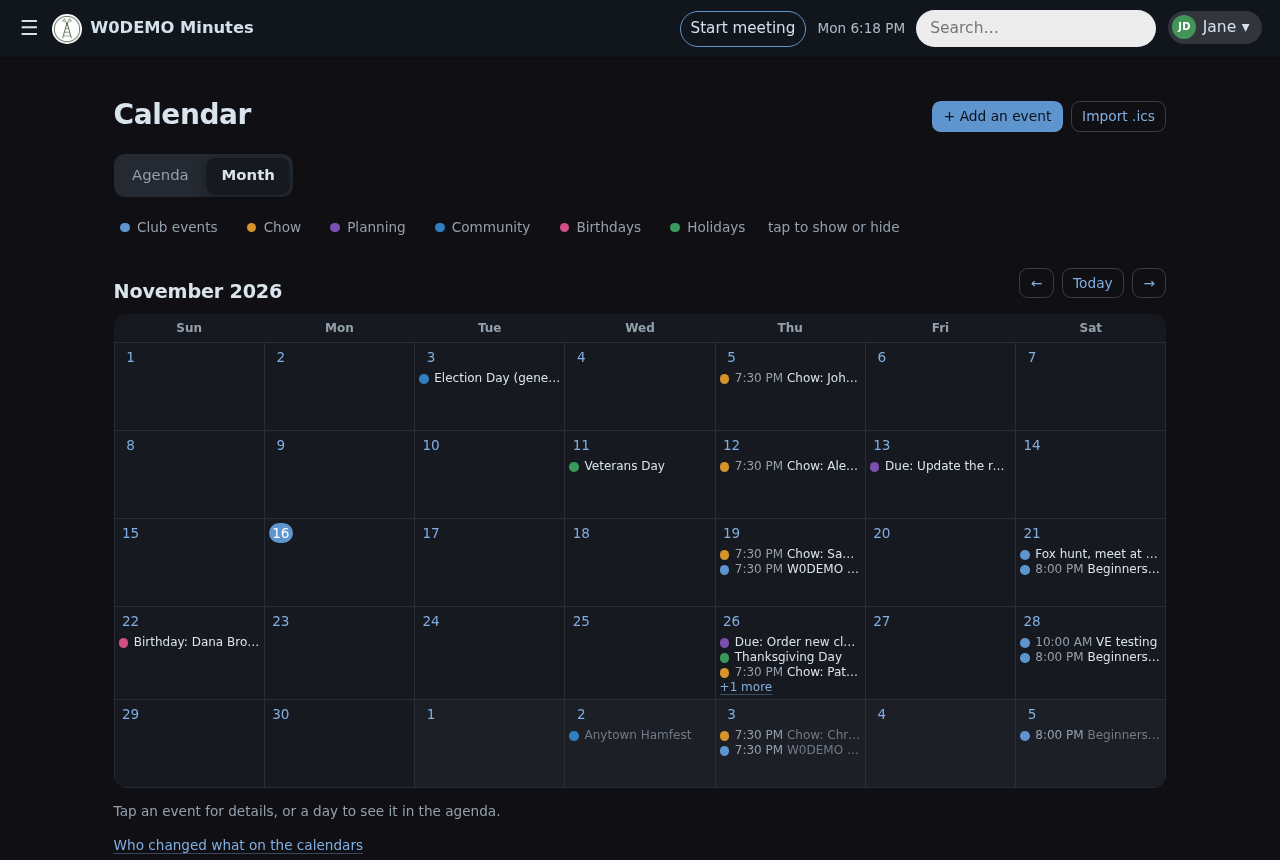
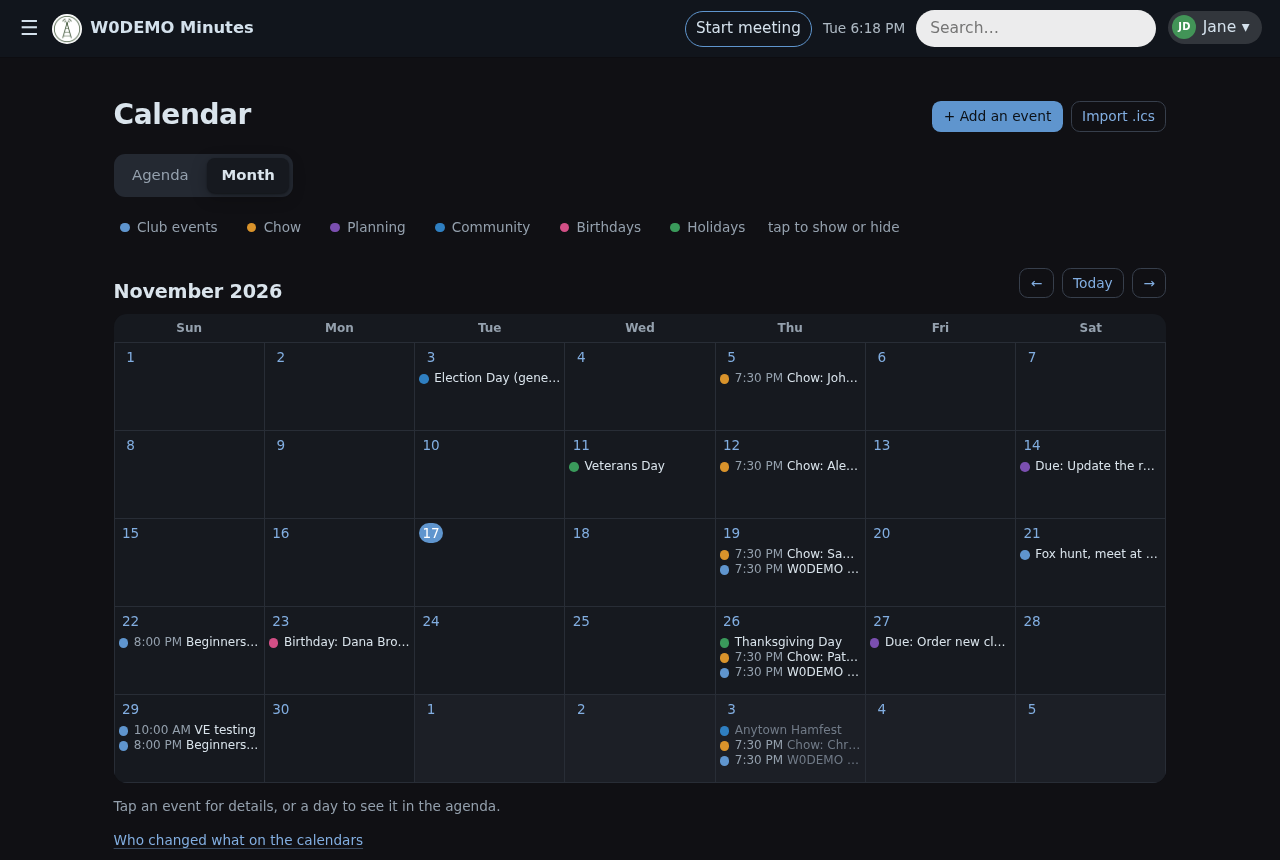
Join online, on the calendar and Home, opens the meeting in a new tab
Claude-Session: https://claude.ai/code/session_015owk5UJKnnQLC4ckPySnir

diff --git a/src/club_minutes/templates/calendar.html b/src/club_minutes/templates/calendar.html
@@ -43,7 +43,7 @@
 {% else %}{{ e.start|date('weekday') }}, all day{% endif %}</p>
 {% if e.repeats and repeats.get(e.id) %}<p class="muted">{{ emoji('🔁', 'repeat') }} {{ repeats[e.id] }}</p>{% endif %}
 {% if e.where %}<p><b>Where</b><br>{{ e.where|linkify }}</p>{% endif %}
-{% if e.online %}<p><a class="btn small" href="{{ e.online }}" rel="noopener">Join online</a></p>{% endif %}
+{% if e.online %}<p><a class="btn small" href="{{ e.online }}" target="_blank" rel="noopener" aria-label="Join online (opens in a new tab)">Join online ↗</a></p>{% endif %}
 {% if e.notes %}<p class="calnotes">{{ e.notes|linkify }}</p>{% endif %}
 {% if e.from_minutes %}<p class="muted small">From the last meeting's Upcoming Events{% if can_edit %}; change it in the leader console{% endif %}.</p>{% endif %}
 {% if can_edit and e.id %}<p class="row"><a class="btn small" href="/calendar/edit?id={{ e.id }}{% if e.occ %}&d={{ e.occ }}{% endif %}">{{ emoji('✏', 'pencil') }} Edit</a></p>{% endif %}

diff --git a/src/club_minutes/templates/home.html b/src/club_minutes/templates/home.html
@@ -12,7 +12,7 @@
   {% if live %}<p class="big"><a href="/meetings/{{ live.slug }}?from=home">{{ emoji('🔴', 'live') }} Follow tonight's minutes live</a></p>
   {% elif next_meeting %}<p class="big">{{ next_meeting|date('weekday') }}{% if next_meeting == today %} · tonight{% endif %}</p>{% endif %}
   {% if chow_next %}<p>Chow{% if not next_meeting or chow_next[0] != next_meeting.isoformat() %} {{ fmt(chow_next[0]) }}{% endif %}: {% if chow_next[1].status == 'none' %}none{% if chow_next[1].note %} ({{ chow_next[1].note }}){% endif %}{% elif chow_next[1].member %}{{ club.name(chow_next[1].member) }}{% else %}not set{% endif %}</p>{% endif %}
-  {% if teams %}<p><a href="{{ teams.url }}">Join online ({{ teams.label }})</a></p>{% endif %}
+  {% if teams %}<p><a href="{{ teams.url }}" target="_blank" rel="noopener">Join online ({{ teams.label }})</a></p>{% endif %}
 </section>
 {% if module('chow') %}<section class="card">
   <h2>Your chow night</h2>

diff --git a/tests/test_security.py b/tests/test_security.py
@@ -342,7 +342,7 @@ def test_site_club_tab_keeps_only_changes_checks_them_and_moves_the_meeting(app,
         assert tab.count("Changed here") == 2  # name and day were changed
         assert 'value=""' in tab.split('id="c-where"')[1][:80]  # the next meeting (still the old Thursday) has no Where yet
         cal = admin.get(f"/calendar?start={since}").text
-        assert 'href="https://meet.example.com/abc?pwd=x&amp;y=1" rel="noopener">Join online' in cal and "123 Main St &lt;b&gt;" in cal
+        assert 'href="https://meet.example.com/abc?pwd=x&amp;y=1" target="_blank" rel="noopener"' in cal and "123 Main St &lt;b&gt;" in cal
         n = len(events.load())
         admin.post("/admin/site/club", data={**same, "name": "Test Radio Club", "meeting_day": "Tuesday", "since": str(since), "where": "", "online": "",
                                              "shown_where": "", "shown_online": ""})  # as the page sends it, untouched

diff --git a/tests/test_guards.py b/tests/test_guards.py
@@ -168,3 +168,12 @@ def test_page_intros_are_short():
     assert len(seen) > 10, "the intro pattern matches nothing"
     long = [f"{n} ({w} words)" for n, w, _ in seen if w > 60]
     assert not long, "page intros over 60 words: split them or move the detail into hints: " + "; ".join(long)
+
+
+def test_new_tab_links_have_one_arrow():
+    """style.css adds "↗" (and "opens in a new tab" for screen readers) to a plain link with target="_blank"; one typed
+    into such a link as well shows twice. Only links with a class (buttons) carry their own."""
+    twice = [f"{t.name}: {m.group(0)[:80]}" for t in sorted(TEMPLATES.glob("*.html"))
+             for m in re.finditer(r"<a\b([^>]*)>(.*?)</a>", t.read_text(), re.DOTALL)
+             if 'target="_blank"' in m.group(1) and "class=" not in m.group(1) and "↗" in m.group(2)]
+    assert not twice, twice

diff --git a/tests/test_archive.py b/tests/test_archive.py
@@ -376,7 +376,7 @@ def test_join_online_is_the_first_video_link(client, monkeypatch):
     c = web.archive.club
     monkeypatch.setattr(c, "_yaml_links", [{"label": "Club Discord", "url": "https://discord.com/invite/x"},
                                            {"label": "Weekly meeting", "url": "https://us02web.zoom.us/j/123"}])
-    assert 'href="https://us02web.zoom.us/j/123">Join online (Weekly meeting)' in client.get("/").text
+    assert 'href="https://us02web.zoom.us/j/123" target="_blank" rel="noopener">Join online (Weekly meeting)</a>' in client.get("/").text
     monkeypatch.setattr(c, "_yaml_links", [{"label": "Club Discord", "url": "https://discord.com/invite/x"}])
     assert "Join online" not in client.get("/").text
 

diff --git a/CHANGELOG.md b/CHANGELOG.md
@@ -16,6 +16,7 @@ Versions follow [semantic versioning](https://semver.org): the first number goes
     - Replies to the minutes email go to whoever took them and whoever led the meeting, each only if they share their email with members; otherwise to the club's address.
     - If the minutes email (or a correction's) doesn't go out, leaders and editors can send it again from the minutes page, and it's tried again overnight.
     - A member made Inactive or a Silent Key loses their saved choices, passkeys and sign-in records that night; everyone's old sign-in records and the Email log go after 90 days. The members guide says what's kept and who sees it.
+    - Join online, on the calendar and Home, opens the meeting in a new tab.
     - Admin → Site marks the fields you change, has Discard changes beside Save, and asks before you leave a tab with changes not yet saved.
 - **Fixed:** a member changing their own email never got the new one; a license class the roster spells its own way ("Extra") showed as none when editing that member, and saving their details cleared it; a picture in Help opened full size sits in the middle of the screen, with its ✕ at its corner.
 - **Security:** fixes from a security review, including ways a member could see or change more than their role allows. Update soon.
